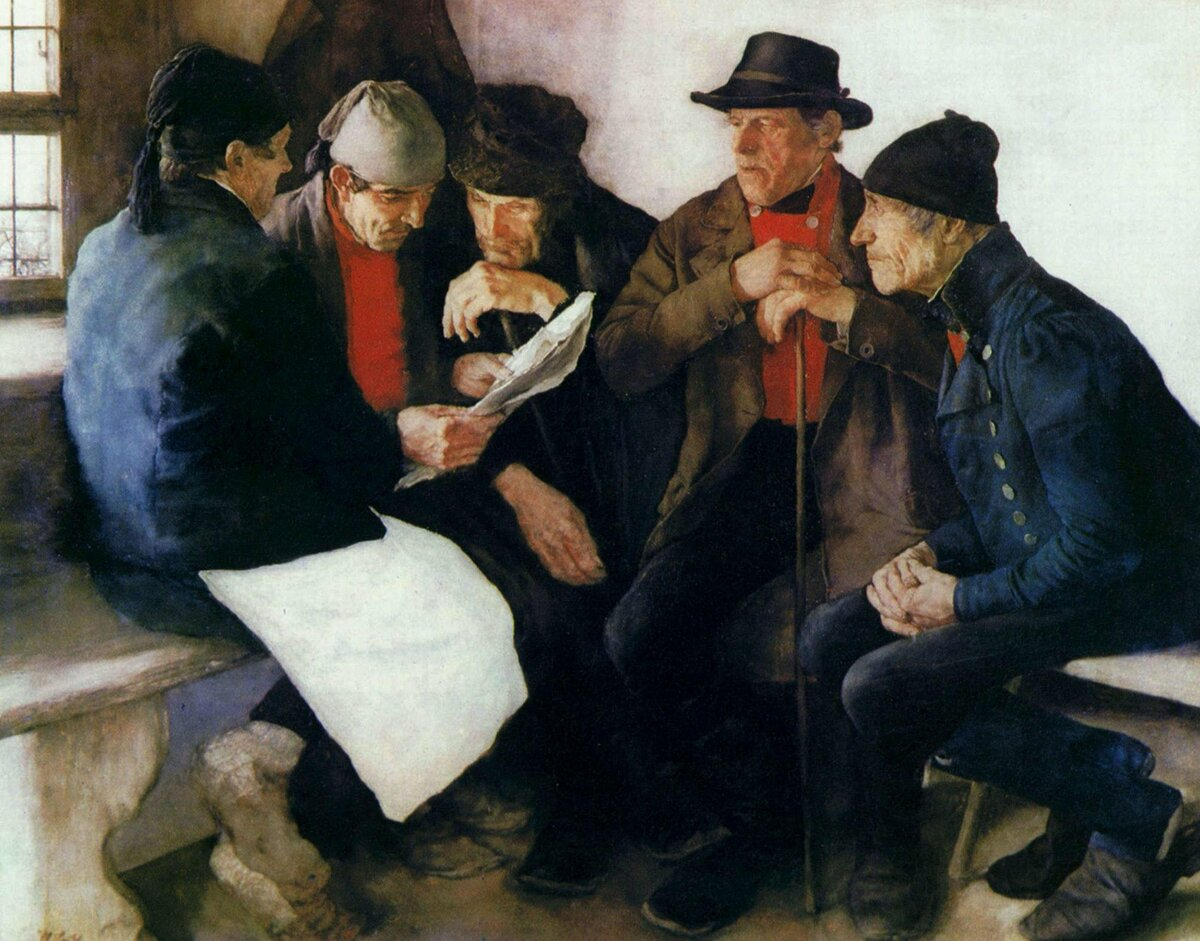
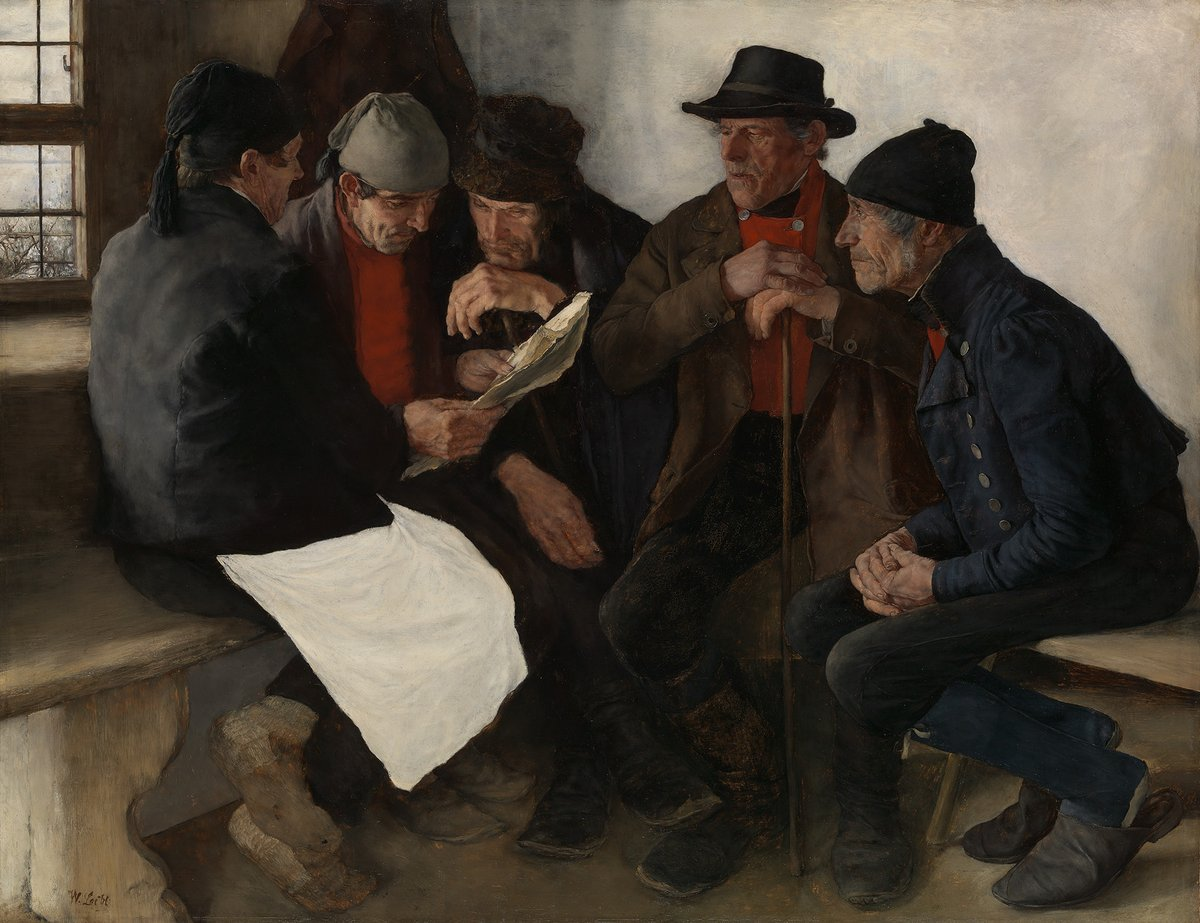
Unify painting headers on Principles, Learn, News and Events
- Nav: a see-through dark band (rgba(24,19,12,.45)) is laid across the top
  of any painting header instead of a solid strip, via data-band on the
  header; the Principles painting now also turns the nav text white.
- Principles: title moves onto the painting, bottom-left ("A guidebook for
  the wise and ethical" / "Stewardship of AI"); D&C 136:27 is written out
  just below the painting instead of in a click-to-open popup; painting
  framed so the seated figure sits under the title; lightest bottom fade;
  header grows with screen width.
- Learn: painting brightened 12%; subtle bottom-only fade.
- News: new scan of The Village Politicians, brightened 12%; subtle
  bottom-only fade; header grows on wide screens; painting runs to the top.
- Events: new header with Renoir's Bal du moulin de la Galette, framed on
  the lanterns and trees.
- All painting credit lines are 70% transparent.

diff --git a/src/components/stewardship/HomeView.jsx b/src/components/stewardship/HomeView.jsx
@@ -10,49 +10,29 @@ export default function HomeView({ V }) {
   return (
     <>
     <div className="view" style={{ display: 'flex', flexDirection: 'column', position: 'relative' }}>
-      <div className="stew-hero-content" style={{ position: 'absolute', left: '0', right: '0', top: '0', height: '100dvh', zIndex: '1' }}>
-        <div style={{ position: 'absolute', left: '0', right: '0', top: '50%', transform: 'translateY(-50%)', textAlign: 'center', padding: '0 4vw', display: 'flex', flexDirection: 'column', alignItems: 'center', gap: 'clamp(8px,1.1vw,20px)' }}>
-          <div className="stew-hero-fade">
-            <div style={{ display: 'flex', alignItems: 'center', justifyContent: 'center', gap: '20px', margin: '0 auto', width: 'min(1025px, 92vw)' }}>
-              <span className="stew-hero-rule" style={{ flex: '1', height: '1px', background: 'rgba(255,255,255,0.6)' }} />
-              <span style={{ fontFamily: "'Newsreader',Georgia,serif", fontStyle: 'italic', fontWeight: '400', fontSize: 'clamp(20px,2.4vw,40px)', color: '#FFFFFF', whiteSpace: 'nowrap' }}>
-                A Guidebook for the Wise and Ethical
-              </span>
-              <span className="stew-hero-rule" style={{ flex: '1', height: '1px', background: 'rgba(255,255,255,0.6)' }} />
-            </div>
-          </div>
-          <h1 className="stew-morph-title" style={{ fontFamily: "'Newsreader',Georgia,serif", display: 'inline-block', transformOrigin: 'left top', willChange: 'transform', fontSize: 'clamp(40px, 9vw, 130px)', lineHeight: '1', fontWeight: '400', letterSpacing: '.075em', textTransform: 'uppercase', margin: '0.05em 0 -0.23em', color: '#FFFFFF', textShadow: '0 2px 18px rgba(20,17,12,0.55)' }}>
-            Stewardship
-          </h1>
-          <div className="stew-hero-fade">
-            <div style={{ display: 'flex', alignItems: 'center', justifyContent: 'center', gap: '20px', margin: '0 auto', width: 'min(1025px, 92vw)' }}>
-              <span className="stew-hero-rule" style={{ flex: '1', height: '1px', background: 'rgba(255,255,255,0.6)' }} />
-              <span style={{ fontFamily: "'Newsreader',Georgia,serif", fontStyle: 'italic', fontWeight: '400', fontSize: 'clamp(20px,2.4vw,40px)', color: '#FFFFFF' }}>
-                &nbsp;of AI&nbsp;
-              </span>
-              <span className="stew-hero-rule" style={{ flex: '1', height: '1px', background: 'rgba(255,255,255,0.6)' }} />
-            </div>
-            <span className="stew-ref" role="button" tabIndex="0" onClick={V.onStewardshipScriptureToggle} onKeyDown={V.onStewardshipScriptureKey} onMouseEnter={V.onStewardshipScriptureEnter} onMouseLeave={V.onStewardshipScriptureLeave} style={{ position: 'relative', display: 'inline-block', cursor: 'pointer', marginTop: '2.2vw' }}>
-              {" "}
-              <p style={{ fontFamily: "'Newsreader',Georgia,serif", fontSize: 'clamp(14px,1.5vw,20px)', letterSpacing: '.14em', color: '#FFFFFF', margin: '0', whiteSpace: 'nowrap', borderBottom: '1px dotted rgba(255,255,255,0.6)', paddingBottom: '2px' }}>
-                D&amp;C 136:27
-              </p>
-              {" "}
-            </span>
+      {/* Painting header: the title sits bottom-left on the painting, matching
+          the Learn, News and Events headers. Its height (--stew-hero-h, in
+          stewardship.css) is shared with .stew-hero-fixed and the spacer, so
+          the three always line up. */}
+      <div className="stew-hero-content" style={{ position: 'absolute', left: '0', right: '0', top: '0', height: 'var(--stew-hero-h)', zIndex: '1' }}>
+        <div className="stew-hero-head">
+          <div className="wrap">
+            <p className="stew-hero-fade stew-hero-kicker">A guidebook for the wise and ethical</p>
+            <h1 className="stew-morph-title">Stewardship of AI</h1>
           </div>
         </div>
-        {V.isStewardshipScriptureOpen ? (
-          <>
-            <div className="stew-verse-pop" style={{ position: 'fixed', left: '50%', top: '70%', transform: 'translate(-50%,0)', width: 'min(860px, 84vw)', background: 'rgba(20,17,12,0.3)', backdropFilter: 'blur(4px)', WebkitBackdropFilter: 'blur(4px)', border: '1px solid rgba(255,255,255,0.22)', borderRadius: '6px', padding: '32px 40px', zIndex: '10', display: 'flex', flexDirection: 'column', justifyContent: 'center', alignItems: 'center', textAlign: 'center', overflow: 'hidden', boxSizing: 'border-box' }}>
-              <p style={{ fontSize: '24px', lineHeight: '1.5', color: '#FFFFFF', fontStyle: 'normal', margin: '0', textShadow: '0 1px 8px rgba(20,17,12,0.6)' }}>
-                "Thou shalt be diligent in preserving what thou hast, that thou mayest be a wise steward; for it is the free gift of the Lord thy God, and thou art his steward."
-              </p>
-            </div>
-          </>
-        ) : null}
       </div>
-      <div className="stew-hero-spacer" style={{ height: '100dvh', width: '100%' }} />
+      <div className="stew-hero-spacer" style={{ height: 'var(--stew-hero-h)', width: '100%' }} />
       <div className={`stew-content-panel ${V.homeReturnClass ?? ''}`} style={{ position: 'relative', zIndex: '1', display: 'block', background: 'transparent' }}>
+        <div className="stew-epigraph">
+          <blockquote>
+            <p>
+              &ldquo;Thou shalt be diligent in preserving what thou hast, that thou mayest be a wise steward; for it is the
+              free gift of the Lord thy God, and thou art his steward.&rdquo;
+            </p>
+            <cite>D&amp;C 136:27</cite>
+          </blockquote>
+        </div>
         <section style={{ width: '100%', height: '100dvh', position: 'relative', display: 'flex', flexDirection: 'column', justifyContent: 'center', gap: 'clamp(22px,4vh,44px)', padding: 'clamp(36px,6vh,80px) max(32px, calc((100% - 1320px)/2))', boxSizing: 'border-box' }}>
           <h1 className="stew-title-target" style={{ fontFamily: "'Newsreader',Georgia,serif", position: 'relative', zIndex: '1', fontSize: 'clamp(30px,min(3.6vw,6vh),56px)', fontWeight: '400', letterSpacing: '.075em', textTransform: 'uppercase', margin: '0', color: '#141414' }}>
             Stewardship

diff --git a/src/stewardship.css b/src/stewardship.css
@@ -494,19 +494,34 @@ main:has(> .stew) + .foot { position: relative; z-index: 2; }
 .stew .view[data-screen-label="05 Integrity"] .agency-painting-box { height:auto !important; }
 .stew .view[data-screen-label="05 Integrity"] .agency-painting-box img { height:auto !important; }
 .stew .stew-content-panel > section:first-of-type { height:auto !important; min-height:0 !important; padding-top:72px !important; }
-.stew .stew-hero-content > div:first-child { top:79dvh !important; transform:translateY(-50%) !important; gap:10px !important; }
-.stew .stew-hero-content .stew-morph-title { color:#141414 !important; text-shadow:none !important; font-size:clamp(40px, 7vw, 104px) !important; }
-.stew .stew-hero-content > div:first-child span, .stew .stew-hero-content > div:first-child p { color:#141414 !important; text-shadow:none !important; }
-.stew .stew-hero-content .stew-hero-rule { background:rgba(20,20,20,0.25) !important; }
-.stew .stew-hero-content > div:first-child span[onmouseenter] p, .stew .stew-hero-content > div:first-child span > p { border-bottom-color:rgba(20,20,20,0.45) !important; color:#0047BA !important; }
-.stew .stew-hero-content .stew-menuitem:hover { color:#0047BA !important; }
-.stew .stew-verse-pop { position:absolute !important; top:auto !important; bottom:calc(42dvh + 28px) !important; background:rgba(20,17,12,0.45) !important; border-color:rgba(255,255,255,0.2) !important; backdrop-filter:blur(6px) !important; }
-.stew .stew-verse-pop p { color:#FFFFFF !important; text-shadow:0 1px 8px rgba(20,17,12,0.6) !important; }
-.stew .stew-hero-caption { color:rgba(255,255,255,0.85) !important; text-shadow:0 1px 6px rgba(20,17,12,0.6); }
+/* ---- Painting header (home view) — matches the Learn, News and Events headers:
+     the painting runs to the top under the nav's see-through band, the title sits
+     bottom-left on it, and D&C 136:27 is written out just below (.stew-epigraph).
+     --stew-hero-h is shared by .stew-hero-fixed (set in StewardshipGuide's
+     _paintHeroZoom), .stew-hero-content and .stew-hero-spacer. It grows with the
+     screen width so the painting isn't cropped to a slice on wide monitors. ---- */
+.stew { --stew-hero-h: max(calc(58dvh + 79px), min(90vh, 52vw)); }
+.stew .stew-hero-head { position:absolute; left:0; right:0; bottom:0; padding-bottom:clamp(56px, 8vw, 96px); }
+.stew .stew-hero-kicker { margin:0; font-family:'IBM Plex Sans',system-ui,sans-serif; font-weight:700; font-size:12.5px; letter-spacing:.18em; text-transform:uppercase; color:rgba(255,255,255,0.75); }
+.stew .stew-hero-content .stew-morph-title { margin:14px 0 0; font-family:'Newsreader',Georgia,serif; font-size:clamp(38px, 6vw, 66px); line-height:1.08; font-weight:400; letter-spacing:.075em; text-transform:uppercase; color:#F4F0E8; text-shadow:0 2px 18px rgba(20,17,12,0.55); }
+/* the lightest bottom-only fade, on the home view only (on a principle's page the
+   same element holds the white "paper" cover, which must stay clean) */
+.stew:has(.stew-hero-content) .stew-hero-fixed::after { content:''; position:absolute; inset:0; z-index:1; pointer-events:none; background:linear-gradient(to top, rgba(20,15,10,0.35) 0%, rgba(20,15,10,0.12) 30%, rgba(20,15,10,0) 48%); }
+/* credit line: 70% transparent */
+.stew .stew-hero-caption { color:rgba(255,255,255,0.3) !important; text-shadow:none; }
+/* D&C 136:27, written out just below the painting */
+.stew .stew-epigraph { padding:64px max(32px, calc((100% - 1320px)/2)) 0; }
+.stew .stew-epigraph blockquote { margin:0; max-width:760px; border-left:2px solid rgba(20,20,20,0.18); padding-left:24px; }
+.stew .stew-epigraph p { margin:0; font-family:'Newsreader',Georgia,serif; font-style:italic; font-size:clamp(20px, 2vw, 28px); line-height:1.5; color:#2a2620; text-wrap:pretty; }
+.stew .stew-epigraph cite { display:block; margin-top:12px; font-family:'IBM Plex Sans',system-ui,sans-serif; font-style:normal; font-weight:700; font-size:12px; letter-spacing:.16em; text-transform:uppercase; color:#0047BA; }
+.stew .stew-content-panel > .stew-epigraph + section:first-of-type { padding-top:48px !important; }
 /* ---- Phone layout (added for the site): the desktop design is a sticky
      side rail + wide columns, which squeezes text to one word per line on a
      narrow screen, so below 700px it becomes a single plain column. ---- */
 @media (max-width: 700px) {
+/* the title wraps to two lines: give it more room so the seated figure stays below it */
+.stew .stew-hero-head { padding-bottom:130px; }
+.stew .stew-epigraph { padding:40px 20px 0; }
 /* clip (not hidden): hides sideways overflow without turning body into the scroller */
 .stew { overflow-x:clip !important; }
 /* Intro ("Stewardship" + Principle/Pause/Practice legend) and the five-principle picker */

diff --git a/src/isaac-site.css b/src/isaac-site.css
@@ -308,6 +308,15 @@ p { text-wrap: pretty; }
   box-shadow: 0 2px 0 #fff;
 }
 :has(> .nav[data-solid="true"]) > .nav-fade { display: none; }
+/* Over a painting header (Principles, Learn, News, Events) the header sits on
+   a see-through dark band laid across the top of the painting, so the white
+   name and links read clearly while the painting still shows through. The
+   blur strip is dropped there so it doesn't smear the painting under it. */
+.nav[data-band="painting"] {
+  background: rgba(24, 19, 12, 0.45);
+  transition: background .3s ease;
+}
+:has(> .nav[data-band="painting"]) > .nav-fade { display: none; }
 .nav[data-over="dark"] .nav__toggle span {
   background: #FFFFFF;
   box-shadow: 0 1px 4px rgba(0, 46, 93, 0.4);
@@ -450,36 +459,37 @@ a.card:not(:has(.link-more)):hover .card__title { text-decoration: underline; te
 .phead--paper h1 { color: var(--ink); font-size: 34px; }
 .phead--paper p { color: var(--muted); }
 
-/* Painting variant (News page): full-bleed artwork behind the header, same
-   recipe as the Learn page's .ks-hero--painting — dark fade for legibility,
+/* Painting variant (News, Events): full-bleed artwork behind the header, same
+   recipe as the Learn page's .ks-hero--painting — subtle bottom fade,
    Stewardship-style title, credit line in the bottom-left corner. Not
-   .phead--paper, so Layout's dark-band check turns the nav white over it. */
+   .phead--paper, so Layout turns the nav white over it and lays the
+   see-through .nav[data-band] strip across the top of the painting. */
 .phead--painting {
   position: relative;
   overflow: hidden;
-  min-height: min(78vh, 760px);
+  /* Grow with the screen width on wide monitors (up to 88% of the screen
+     height) so squarish paintings aren't cropped to a thin horizontal slice. */
+  min-height: max(min(78vh, 760px), min(88vh, 46vw));
   display: flex;
   align-items: flex-end;
   background: #2a2118; /* shows while the image loads */
 }
 .phead__painting {
   position: absolute;
-  /* Start 40px down (about halfway into the 79px fixed nav) so the painting's
-     top edge is mostly clear of it; the band's dark background fills the strip
-     above. The band's bottom edge is unchanged, so the extra crop comes off
-     the bottom. */
-  inset: 40px 0 0 0;
+  /* Runs to the very top, under the nav's see-through band. Each page sets
+     its own object-position (and any zoom) inline to frame its painting. */
+  inset: 0;
   width: 100%;
-  height: calc(100% - 40px);
+  height: 100%;
   object-fit: cover;
-  object-position: 50% 0%; /* show the top of the painting in full */
+  object-position: 50% 25%;
 }
+/* Subtle fade along the bottom only (no darkening at the top). */
 .phead--painting::after {
   content: '';
   position: absolute;
   inset: 0;
-  background:
-    linear-gradient(to top, rgba(20, 15, 10, 0.82) 0%, rgba(20, 15, 10, 0.4) 40%, rgba(20, 15, 10, 0) 64%);
+  background: linear-gradient(to top, rgba(20, 15, 10, 0.55) 0%, rgba(20, 15, 10, 0.22) 32%, rgba(20, 15, 10, 0) 52%);
   pointer-events: none;
 }
 .phead--painting .wrap { position: relative; z-index: 1; width: 100%; }
@@ -502,7 +512,7 @@ a.card:not(:has(.link-more)):hover .card__title { text-decoration: underline; te
   margin: 0;
   font-size: 11px;
   letter-spacing: 0.05em;
-  color: rgba(255, 255, 255, 0.6);
+  color: rgba(255, 255, 255, 0.3); /* credit line: 70% transparent */
   white-space: nowrap;
 }
 

diff --git a/src/components/Layout.jsx b/src/components/Layout.jsx
@@ -139,6 +139,9 @@ export default function Layout() {
   // solid white, so the page scrolling past never shows through behind it —
   // as when the guidebook sat below the header in its own frame.
   const [solidHeader, setSolidHeader] = useState(false)
+  // A painting header (Principles, Learn, News, Events) is under the header:
+  // the header sits on a see-through dark band over it (isaac-site.css).
+  const [onPainting, setOnPainting] = useState(false)
   const location = useLocation()
   const [mode, setMode] = useState(() => (window.innerWidth < 860 ? 'narrow' : 'mid'))
   const modeRef = useRef(mode)
@@ -281,8 +284,9 @@ export default function Layout() {
       // once .pivot--in is added (a plain CSS color transition, not a
       // pinned fade — see Home.jsx/homepage.css), so it's watched via that
       // class rather than unconditionally like the sections after it.
+      // .stew-hero-content is the Principles guidebook's painting header.
       const darkEls = document.querySelectorAll(
-        '.phead:not(.phead--paper), .ks-hero--painting, .newsletter, .home-open, .cinema-finale-dark-zone, .mission, .pivot--in, .principles-framework, .practice, .reflect',
+        '.phead:not(.phead--paper), .ks-hero--painting, .stew-hero-content, .newsletter, .home-open, .cinema-finale-dark-zone, .mission, .pivot--in, .principles-framework, .practice, .reflect',
       )
       // Compare against the header's live height (taller at the top of the
       // page on wide screens, while the links sit on their own line).
@@ -298,6 +302,15 @@ export default function Layout() {
       const pinned = !!bar && bar.getBoundingClientRect().top - barShift <= navH + 0.5
       setSolidHeader(pinned)
       setOnDark(isDark && !pinned)
+      // The painting band shows while a painting header fills the strip
+      // behind the header (and not once you've scrolled past it).
+      const painting = Array.from(
+        document.querySelectorAll('.ks-hero--painting, .phead--painting, .stew-hero-content'),
+      ).some((el) => {
+        const r = el.getBoundingClientRect()
+        return r.top < navH && r.bottom > navH
+      })
+      setOnPainting(painting && !pinned)
     }
     window.addEventListener('scroll', onScroll, { passive: true })
     onScroll()
@@ -337,6 +350,7 @@ export default function Layout() {
         data-open={menuOpen}
         data-over={darkHeader ? 'dark' : 'light'}
         data-solid={solidHeader || undefined}
+        data-band={onPainting && !menuOpen ? 'painting' : undefined}
       >
         <div className="wrap" ref={wrapRef}>
           <Link className="brand" to="/" aria-label="AI & Ethics Initiative — home">

diff --git a/src/components/stewardship/StewardshipGuide.jsx b/src/components/stewardship/StewardshipGuide.jsx
@@ -280,13 +280,11 @@ export default class StewardshipGuide extends Component {
       fixed.style.opacity = '1';
       fixed.style.position = 'absolute';
       fixed.style.top = '0';
-      fixed.style.height = '58dvh';
+      // Same height as the title area and the spacer (--stew-hero-h in
+      // stewardship.css): the title now sits on the painting, so the spacer no
+      // longer needs measuring to clear a title below it.
+      fixed.style.height = 'var(--stew-hero-h)';
       fixed.style.borderBottom = 'none';
-      {
-        const tb = document.querySelector('.stew-hero-content > div:first-child');
-        const sp = document.querySelector('.stew-hero-spacer');
-        if (tb && sp) { const h = Math.ceil(Math.max(tb.getBoundingClientRect().bottom + window.scrollY + 24, window.innerHeight)) + 'px'; if (sp.style.height !== h) sp.style.height = h; }
-      }
       if (img) img.style.transition = this._justReturnedHome ? 'transform .5s ease, object-position .5s ease' : 'none';
       const fades = document.querySelectorAll('.stew-hero-fade');
       const title = document.querySelector('.stew-morph-title');
@@ -299,7 +297,10 @@ export default class StewardshipGuide extends Component {
       // image keeps zooming for the whole scroll
       const homeScale = 1;
       this._imgScale = homeScale; this._imgPos = [50, 100];
-      if (img) { img.style.transform = 'none'; img.style.objectPosition = '50% 62%'; }
+      // 50% 45% drops the seated figure in the foreground (≈37% across, 84%
+      // down the painting) into the open space just under the title, from
+      // phones up to 2560px-wide screens.
+      if (img) { img.style.transform = 'none'; img.style.objectPosition = '50% 45%'; }
       // surrounding hero text is fully gone well before the next section
       const fadeOut = 1;
       fades.forEach((el) => { el.style.opacity = '1'; });

diff --git a/src/kickstart.css b/src/kickstart.css
@@ -38,15 +38,16 @@
   height: 100%;
   object-fit: cover;
   object-position: 50% 45%; /* keep the teacher and the windows in frame */
+  filter: brightness(1.12); /* lift the painting's dark interior a little */
 }
-/* Dark fade so the nav on top and the white title below stay readable */
+/* Subtle fade along the bottom only, so the white title and description stay
+   readable without darkening the painting (the nav gets its own band — see
+   .nav[data-band] in isaac-site.css). */
 .ks-hero--painting::after {
   content: '';
   position: absolute;
   inset: 0;
-  background:
-    linear-gradient(to bottom, rgba(20, 15, 10, 0.45) 0%, rgba(20, 15, 10, 0) 22%),
-    linear-gradient(to top, rgba(20, 15, 10, 0.78) 0%, rgba(20, 15, 10, 0.35) 38%, rgba(20, 15, 10, 0) 62%);
+  background: linear-gradient(to top, rgba(20, 15, 10, 0.55) 0%, rgba(20, 15, 10, 0.22) 32%, rgba(20, 15, 10, 0) 52%);
   pointer-events: none;
 }
 .ks-hero--painting .wrap {
@@ -72,7 +73,7 @@
   margin: 0;
   font-size: 11px;
   letter-spacing: 0.05em;
-  color: rgba(255, 255, 255, 0.6);
+  color: rgba(255, 255, 255, 0.3); /* credit line: 70% transparent */
   white-space: nowrap;
 }
 

diff --git a/src/pages/GetInvolved.jsx b/src/pages/GetInvolved.jsx
@@ -6,10 +6,19 @@ import '../get-involved.css'
 export default function GetInvolved() {
   return (
     <>
-      <header className="phead phead--paper">
+      <header className="phead phead--painting">
+        {/* Framed on the lanterns and trees at the top of the painting, with
+            the crowd below — calmer behind the title than the busy full scene. */}
+        <img
+          className="phead__painting"
+          src={`${import.meta.env.BASE_URL}images/bal-du-moulin-renoir.jpg`}
+          alt="Pierre-Auguste Renoir, Bal du moulin de la Galette, a painting of a crowd dancing and talking at an open-air dance hall under the trees"
+          style={{ objectPosition: '50% 0%', transform: 'scale(1.25)', transformOrigin: '45% 0%' }}
+        />
         <div className="wrap">
           <h1>Events and Activities</h1>
         </div>
+        <p className="phead__caption">Pierre-Auguste Renoir, Bal du moulin de la Galette, 1876</p>
       </header>
 
       <div className="gi-panel">

diff --git a/src/pages/News.jsx b/src/pages/News.jsx
@@ -96,10 +96,12 @@ export default function News() {
   return (
     <>
       <header className="phead phead--painting">
+        {/* Keep the heads and newspaper in frame; lift the dark interior a little. */}
         <img
           className="phead__painting"
           src={`${import.meta.env.BASE_URL}images/village-politicians-leibl.jpg`}
           alt="Wilhelm Leibl, The Village Politicians, a painting of five village men on a bench leaning in to read a newspaper together"
+          style={{ objectPosition: '50% 25%', filter: 'brightness(1.12)' }}
         />
         <div className="wrap">
           <p className="kicker">News</p>
